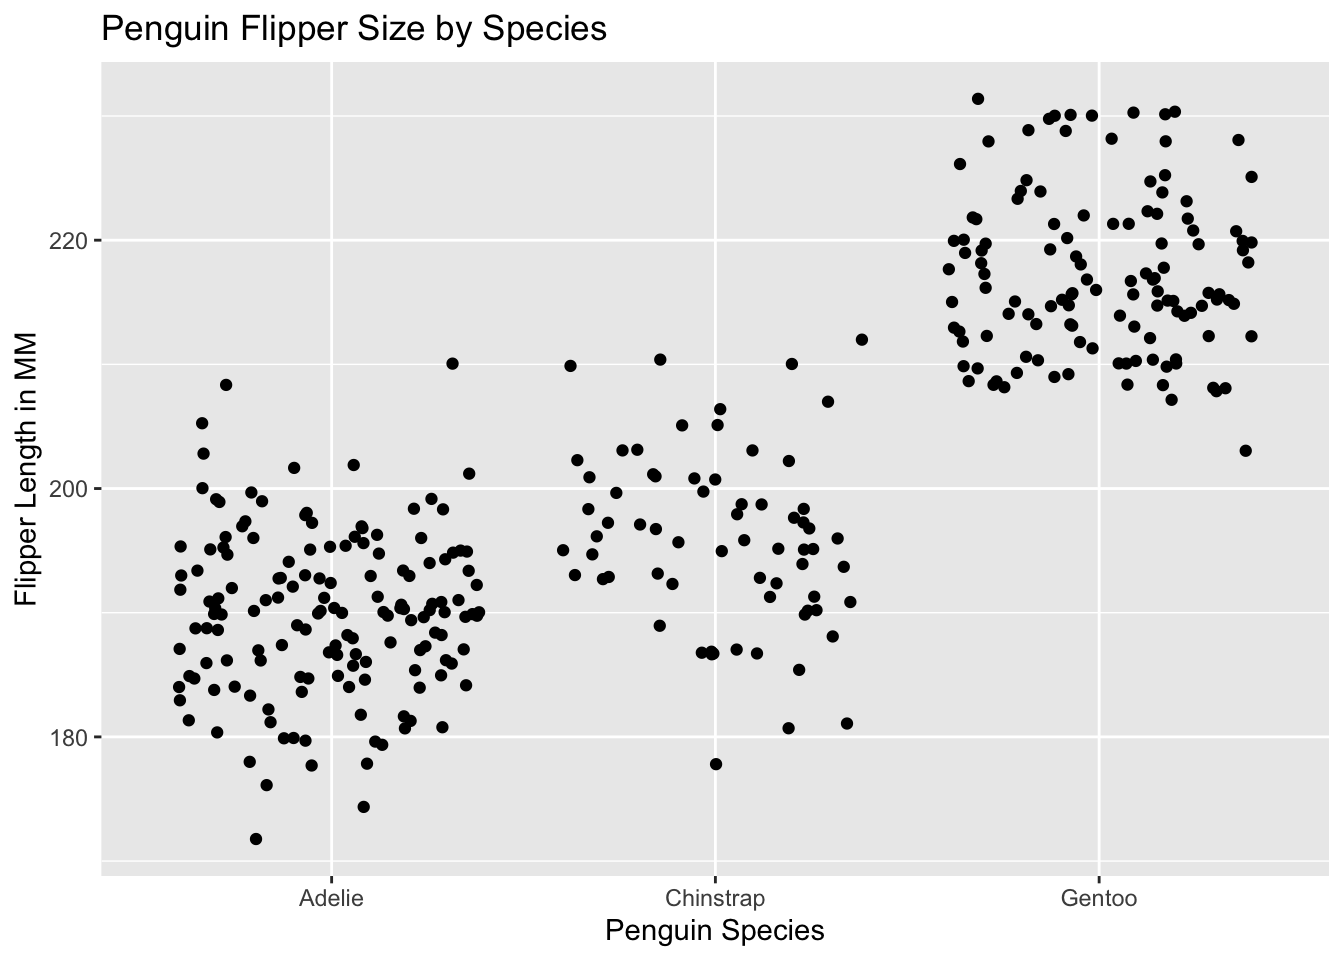
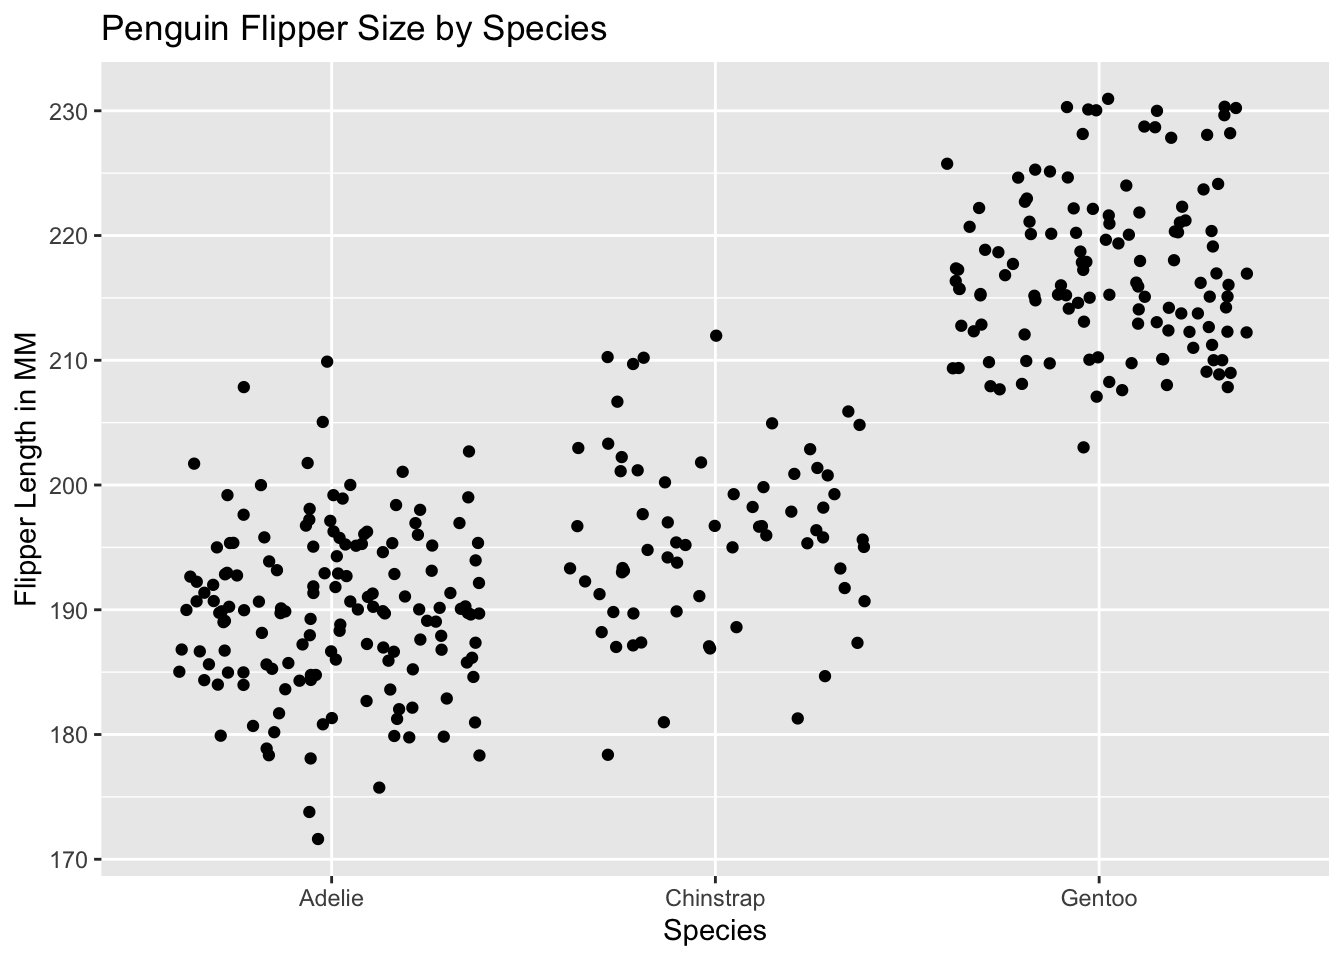
testing

diff --git a/eds-212-day2-handout.html b/eds-212-day2-handout.html
@@ -151,7 +151,7 @@ pre > code.sourceCode > span > a:first-child::before { text-decoration: underlin
 </div></li>
 </ol>
 <div class="cell">
-<div class="sourceCode cell-code" id="cb12"><pre class="sourceCode r code-with-copy"><code class="sourceCode r"><span id="cb12-1"><a href="#cb12-1" aria-hidden="true" tabindex="-1"></a><span class="fu">ggplot</span>(<span class="at">data =</span> penguins, <span class="fu">aes</span>(<span class="at">x =</span> penguins<span class="sc">$</span>species, <span class="at">y =</span> penguins<span class="sc">$</span>flipper_length_mm)) <span class="sc">+</span> <span class="fu">geom_jitter</span>() <span class="sc">+</span> <span class="fu">labs</span>(<span class="at">x =</span> <span class="st">"Penguin Species"</span>, <span class="at">y =</span> <span class="st">"Flipper Length in MM"</span>, <span class="at">title =</span> <span class="st">"Penguin Flipper Size by Species"</span>)</span></code><button title="Copy to Clipboard" class="code-copy-button"><i class="bi"></i></button></pre></div>
+<div class="sourceCode cell-code" id="cb12"><pre class="sourceCode r code-with-copy"><code class="sourceCode r"><span id="cb12-1"><a href="#cb12-1" aria-hidden="true" tabindex="-1"></a><span class="fu">ggplot</span>(<span class="at">data =</span> penguins, <span class="fu">aes</span>(<span class="at">x =</span> penguins<span class="sc">$</span>species, <span class="at">y =</span> penguins<span class="sc">$</span>flipper_length_mm)) <span class="sc">+</span> <span class="fu">geom_jitter</span>() <span class="sc">+</span> <span class="fu">labs</span>(<span class="at">x =</span> <span class="st">"Species"</span>, <span class="at">y =</span> <span class="st">"Flipper Length in MM"</span>, <span class="at">title =</span> <span class="st">"Penguin Flipper Size by Species"</span>)</span></code><button title="Copy to Clipboard" class="code-copy-button"><i class="bi"></i></button></pre></div>
 <div class="cell-output cell-output-stderr">
 <pre><code>Warning: Use of `penguins$species` is discouraged.
 ℹ Use `species` instead.</code></pre>
